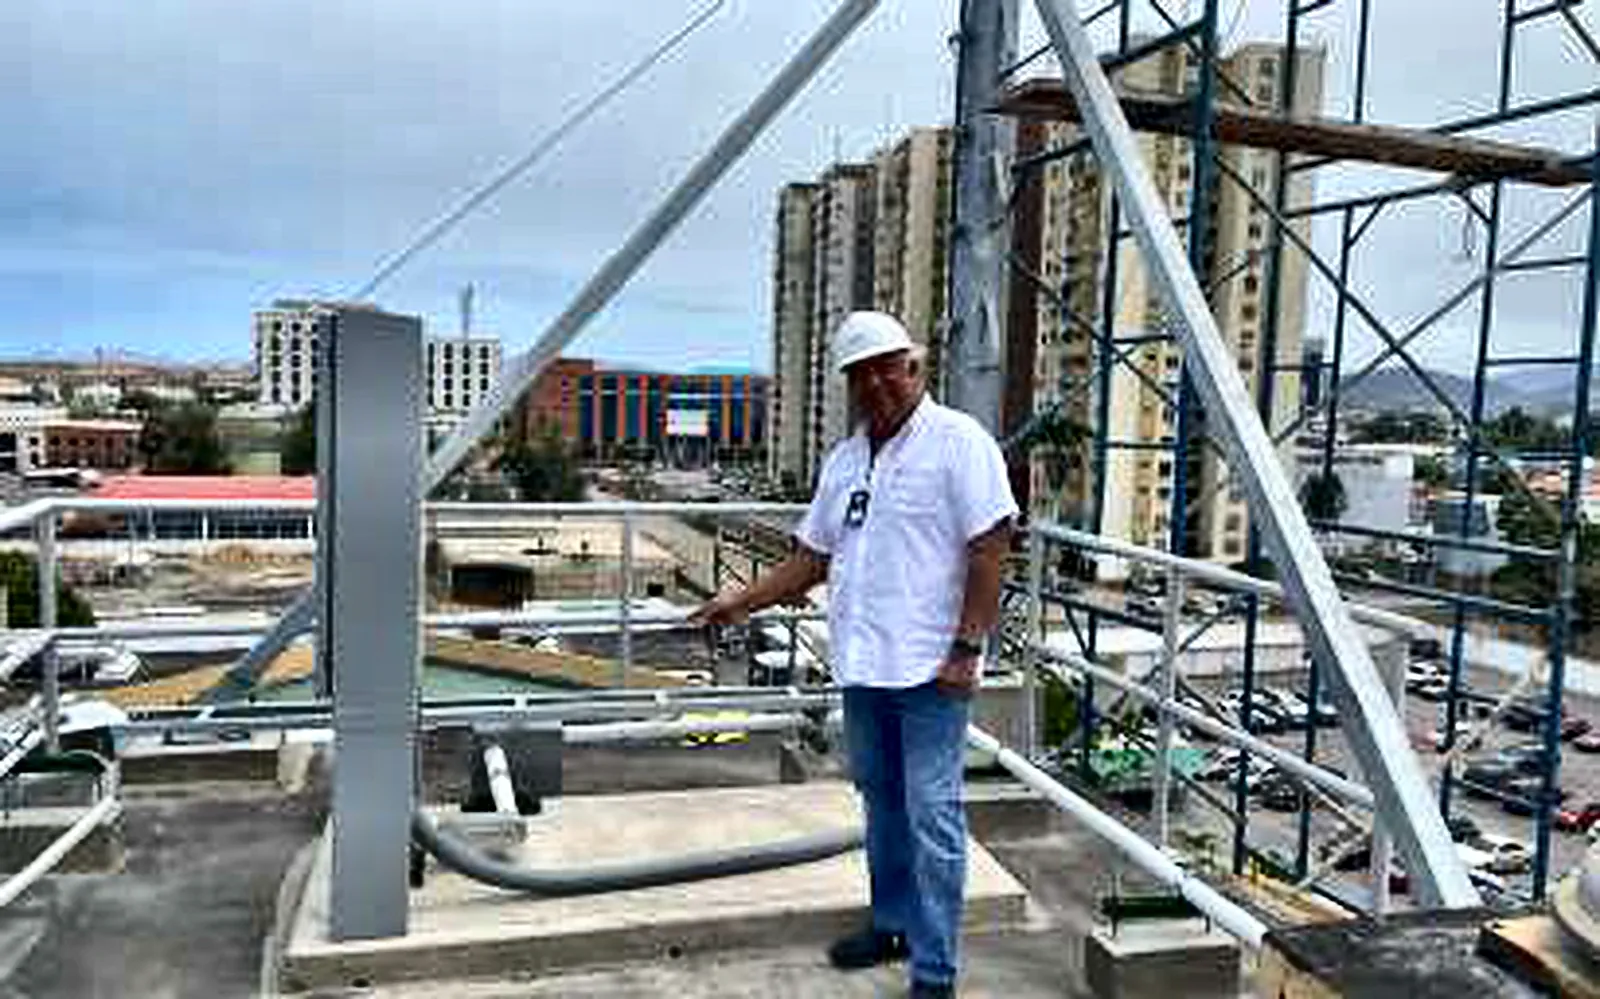
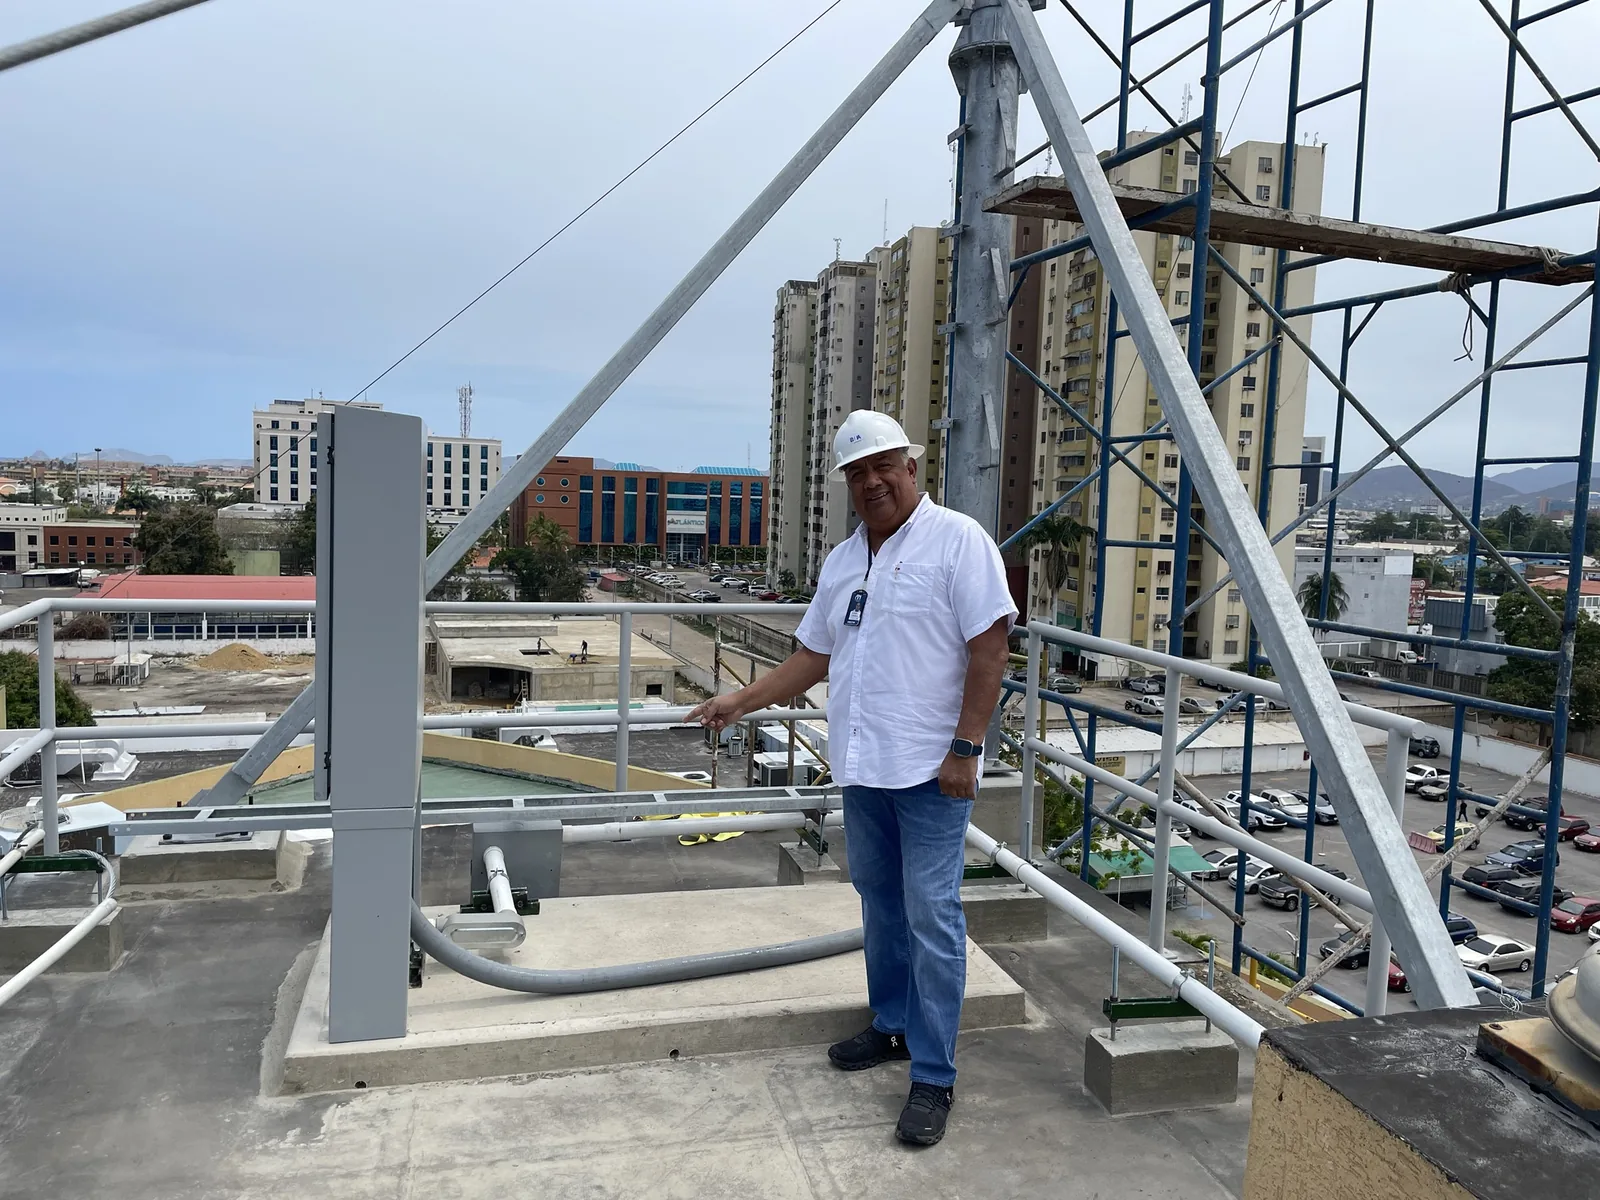
Ingeniería con la foto original de la azotea y escáner mejorado sin marca inventada
Claude-Session: https://claude.ai/code/session_0183RWzprGgvVQGHdLzmR4yj

diff --git a/public/index.html b/public/index.html
@@ -15,7 +15,7 @@
 <link rel="icon" href="img/favicon-32.png" sizes="32x32" type="image/png">
 <link rel="apple-touch-icon" href="img/apple-touch-icon.png">
 <link rel="preload" href="fonts/redhat-display.woff2" as="font" type="font/woff2" crossorigin>
-<link rel="stylesheet" href="css/estilos.css?v=11">
+<link rel="stylesheet" href="css/estilos.css?v=12">
 <script type="application/ld+json">{"@context":"https://schema.org","@type":"GeneralContractor","name":"0701 Ingeniería C.A.","taxID":"J-31628414-0","foundingDate":"2006-08","email":"0701bim@gmail.com","telephone":["+58 424-862-9487","+58 412-840-7792"],"founder":{"@type":"Person","name":"Gabriel A. Forero León","jobTitle":"Ingeniero civil estructural"},"address":{"@type":"PostalAddress","streetAddress":"Calle Sur, Edif. Arabella, piso 9, apto. 91, sector Venecia","addressLocality":"Lechería","addressRegion":"Anzoátegui","postalCode":"6016","addressCountry":"VE"},"areaServed":"Anzoátegui, Venezuela"}</script>
 </head>
 <body>
@@ -78,7 +78,7 @@
     </div>
     <ul class="srv-rejilla">
 <li class="srv">
-  <div class="srv__img"><img class="" src="img/fotos/srv-ingenieria-800.webp" srcset="img/fotos/srv-ingenieria-800.webp 800w, img/fotos/srv-ingenieria-1600.webp 1600w" sizes="(min-width: 1100px) 33vw, (min-width: 720px) 50vw, 100vw" width="1600" height="999" alt="Ingeniería" loading="lazy" decoding="async"></div>
+  <div class="srv__img"><img class="" src="img/fotos/srv-ingenieria-800.webp" srcset="img/fotos/srv-ingenieria-800.webp 800w, img/fotos/srv-ingenieria-1600.webp 1600w" sizes="(min-width: 1100px) 33vw, (min-width: 720px) 50vw, 100vw" width="1600" height="1200" alt="Ingeniería" loading="lazy" decoding="async"></div>
   <h3>Ingeniería</h3>
   <p>Ingeniería conceptual y de detalle civil, mecánica y eléctrica, modelado BIM, estudios de factibilidad e interventoría técnica, administrativa y financiera de obras públicas y privadas.</p>
 </li>
@@ -103,7 +103,7 @@
   <p>Búsqueda, compra y suministro de materiales, repuestos y revestimientos para plantas industriales y edificaciones.</p>
 </li>
 <li class="srv">
-  <div class="srv__img"><img class="" src="img/fotos/srv-levantamientos-800.webp" srcset="img/fotos/srv-levantamientos-800.webp 800w, img/fotos/srv-levantamientos-1600.webp 1600w" sizes="(min-width: 1100px) 33vw, (min-width: 720px) 50vw, 100vw" width="1600" height="991" alt="Levantamientos y geotecnia" loading="lazy" decoding="async"></div>
+  <div class="srv__img"><img class="" src="img/fotos/srv-levantamientos-800.webp" srcset="img/fotos/srv-levantamientos-800.webp 800w, img/fotos/srv-levantamientos-1600.webp 1600w" sizes="(min-width: 1100px) 33vw, (min-width: 720px) 50vw, 100vw" width="1592" height="988" alt="Levantamientos y geotecnia" loading="lazy" decoding="async"></div>
   <h3>Levantamientos y geotecnia</h3>
   <p>Topografía, replanteo, escáner láser, aerofotogrametría y LIDAR, estudios de suelo y micropilotaje, junto a nuestros aliados.</p>
 </li>
@@ -219,6 +219,6 @@
   <div class="env pie__base"><span>© 2026 0701 Ingeniería C.A.</span><span>Web: <a href="https://muelle0.com" rel="noopener">muelle0</a></span></div>
 </footer>
 <div class="visor" hidden><button class="visor__cerrar" type="button" aria-label="Cerrar">Cerrar</button><img alt=""><p class="visor__pie"></p></div>
-<script src="js/main.js?v=11" defer></script>
+<script src="js/main.js?v=12" defer></script>
 </body>
 </html>

diff --git a/public/obras/cerveceria-polar-barcelona/index.html b/public/obras/cerveceria-polar-barcelona/index.html
@@ -15,7 +15,7 @@
 <link rel="icon" href="../../img/favicon-32.png" sizes="32x32" type="image/png">
 <link rel="apple-touch-icon" href="../../img/apple-touch-icon.png">
 <link rel="preload" href="../../fonts/redhat-display.woff2" as="font" type="font/woff2" crossorigin>
-<link rel="stylesheet" href="../../css/estilos.css?v=11">
+<link rel="stylesheet" href="../../css/estilos.css?v=12">
 </head>
 <body>
 <a class="saltar" href="#contenido">Saltar al contenido</a>
@@ -86,6 +86,6 @@
   <div class="env pie__base"><span>© 2026 0701 Ingeniería C.A.</span><span>Web: <a href="https://muelle0.com" rel="noopener">muelle0</a></span></div>
 </footer>
 <div class="visor" hidden><button class="visor__cerrar" type="button" aria-label="Cerrar">Cerrar</button><img alt=""><p class="visor__pie"></p></div>
-<script src="../../js/main.js?v=11" defer></script>
+<script src="../../js/main.js?v=12" defer></script>
 </body>
 </html>

diff --git a/public/obras/deposito-tijerazo/index.html b/public/obras/deposito-tijerazo/index.html
@@ -15,7 +15,7 @@
 <link rel="icon" href="../../img/favicon-32.png" sizes="32x32" type="image/png">
 <link rel="apple-touch-icon" href="../../img/apple-touch-icon.png">
 <link rel="preload" href="../../fonts/redhat-display.woff2" as="font" type="font/woff2" crossorigin>
-<link rel="stylesheet" href="../../css/estilos.css?v=11">
+<link rel="stylesheet" href="../../css/estilos.css?v=12">
 </head>
 <body>
 <a class="saltar" href="#contenido">Saltar al contenido</a>
@@ -86,6 +86,6 @@
   <div class="env pie__base"><span>© 2026 0701 Ingeniería C.A.</span><span>Web: <a href="https://muelle0.com" rel="noopener">muelle0</a></span></div>
 </footer>
 <div class="visor" hidden><button class="visor__cerrar" type="button" aria-label="Cerrar">Cerrar</button><img alt=""><p class="visor__pie"></p></div>
-<script src="../../js/main.js?v=11" defer></script>
+<script src="../../js/main.js?v=12" defer></script>
 </body>
 </html>

diff --git a/public/obras/plaza-mayor/index.html b/public/obras/plaza-mayor/index.html
@@ -15,7 +15,7 @@
 <link rel="icon" href="../../img/favicon-32.png" sizes="32x32" type="image/png">
 <link rel="apple-touch-icon" href="../../img/apple-touch-icon.png">
 <link rel="preload" href="../../fonts/redhat-display.woff2" as="font" type="font/woff2" crossorigin>
-<link rel="stylesheet" href="../../css/estilos.css?v=11">
+<link rel="stylesheet" href="../../css/estilos.css?v=12">
 </head>
 <body>
 <a class="saltar" href="#contenido">Saltar al contenido</a>
@@ -86,6 +86,6 @@
   <div class="env pie__base"><span>© 2026 0701 Ingeniería C.A.</span><span>Web: <a href="https://muelle0.com" rel="noopener">muelle0</a></span></div>
 </footer>
 <div class="visor" hidden><button class="visor__cerrar" type="button" aria-label="Cerrar">Cerrar</button><img alt=""><p class="visor__pie"></p></div>
-<script src="../../js/main.js?v=11" defer></script>
+<script src="../../js/main.js?v=12" defer></script>
 </body>
 </html>

diff --git a/public/obras/tienda-tijerazo-puerto-la-cruz/index.html b/public/obras/tienda-tijerazo-puerto-la-cruz/index.html
@@ -15,7 +15,7 @@
 <link rel="icon" href="../../img/favicon-32.png" sizes="32x32" type="image/png">
 <link rel="apple-touch-icon" href="../../img/apple-touch-icon.png">
 <link rel="preload" href="../../fonts/redhat-display.woff2" as="font" type="font/woff2" crossorigin>
-<link rel="stylesheet" href="../../css/estilos.css?v=11">
+<link rel="stylesheet" href="../../css/estilos.css?v=12">
 </head>
 <body>
 <a class="saltar" href="#contenido">Saltar al contenido</a>
@@ -86,6 +86,6 @@
   <div class="env pie__base"><span>© 2026 0701 Ingeniería C.A.</span><span>Web: <a href="https://muelle0.com" rel="noopener">muelle0</a></span></div>
 </footer>
 <div class="visor" hidden><button class="visor__cerrar" type="button" aria-label="Cerrar">Cerrar</button><img alt=""><p class="visor__pie"></p></div>
-<script src="../../js/main.js?v=11" defer></script>
+<script src="../../js/main.js?v=12" defer></script>
 </body>
 </html>

diff --git a/public/obras/torres-digitel/index.html b/public/obras/torres-digitel/index.html
@@ -15,7 +15,7 @@
 <link rel="icon" href="../../img/favicon-32.png" sizes="32x32" type="image/png">
 <link rel="apple-touch-icon" href="../../img/apple-touch-icon.png">
 <link rel="preload" href="../../fonts/redhat-display.woff2" as="font" type="font/woff2" crossorigin>
-<link rel="stylesheet" href="../../css/estilos.css?v=11">
+<link rel="stylesheet" href="../../css/estilos.css?v=12">
 </head>
 <body>
 <a class="saltar" href="#contenido">Saltar al contenido</a>
@@ -86,6 +86,6 @@
   <div class="env pie__base"><span>© 2026 0701 Ingeniería C.A.</span><span>Web: <a href="https://muelle0.com" rel="noopener">muelle0</a></span></div>
 </footer>
 <div class="visor" hidden><button class="visor__cerrar" type="button" aria-label="Cerrar">Cerrar</button><img alt=""><p class="visor__pie"></p></div>
-<script src="../../js/main.js?v=11" defer></script>
+<script src="../../js/main.js?v=12" defer></script>
 </body>
 </html>

diff --git a/public/obras/index.html b/public/obras/index.html
@@ -15,7 +15,7 @@
 <link rel="icon" href="../img/favicon-32.png" sizes="32x32" type="image/png">
 <link rel="apple-touch-icon" href="../img/apple-touch-icon.png">
 <link rel="preload" href="../fonts/redhat-display.woff2" as="font" type="font/woff2" crossorigin>
-<link rel="stylesheet" href="../css/estilos.css?v=11">
+<link rel="stylesheet" href="../css/estilos.css?v=12">
 </head>
 <body>
 <a class="saltar" href="#contenido">Saltar al contenido</a>
@@ -147,6 +147,6 @@
   <div class="env pie__base"><span>© 2026 0701 Ingeniería C.A.</span><span>Web: <a href="https://muelle0.com" rel="noopener">muelle0</a></span></div>
 </footer>
 <div class="visor" hidden><button class="visor__cerrar" type="button" aria-label="Cerrar">Cerrar</button><img alt=""><p class="visor__pie"></p></div>
-<script src="../js/main.js?v=11" defer></script>
+<script src="../js/main.js?v=12" defer></script>
 </body>
 </html>

diff --git a/herramientas/fotos_gpt.py b/herramientas/fotos_gpt.py
@@ -23,9 +23,10 @@ APROBADAS = {
     "digitel-crucero": "digitel-crucero", "digitel-torre": "digitel-torre", "digitel-andamio": "digitel-andamio",
     "digitel-izado": "digitel-izado", "digitel-antenas": "digitel-antenas", "digitel-azotea": "digitel-azotea",
     # servicios que reutilizan fotos de obra
+    "srv-levantamientos": "srv-levantamientos",  # segundo intento, sin marca inventada
     "srv-construccion": "tijerazo-foso", "srv-mantenimiento": "polar-revestimiento", "srv-telecom": "digitel-torre",
 }
-# Descartadas: srv-ingenieria (cara inventada), srv-levantamientos (marca inventada en el equipo)
+# srv-ingenieria no pasa por ChatGPT (inventaba la cara): se usa la foto original del teléfono (fuentes/gabriel-azotea-h.jpg)
 
 ruta_dim = os.path.join(SALIDA, "dimensiones.txt")
 dims = dict(l.split(None, 1) for l in open(ruta_dim).read().splitlines() if l.strip())

diff --git a/build.py b/build.py
@@ -4,7 +4,7 @@ import html, os, re
 from contenido import EMPRESA as E, SERVICIOS, CLIENTES, OBRAS, CUADRO
 
 RAIZ = os.path.join(os.path.dirname(os.path.abspath(__file__)), "public")
-V = "11"
+V = "12"
 esc = html.escape
 MARCA = open(os.path.join(RAIZ, "img", "marca.svg")).read()
 LOGO = open(os.path.join(RAIZ, "img", "logo.svg")).read()

diff --git a/README.md b/README.md
@@ -17,7 +17,7 @@ Flujo: editar `contenido.py`, `python3 build.py`, revisar con `cd public && pyth
 
 ### Fotos
 
-- **Mejoradas con ChatGPT (octubre 2026):** 18 fotos del brochure pasaron por ChatGPT con la instrucción de no añadir ni cambiar nada (`fuentes/chatgpt/`, exportadas con `herramientas/fotos_gpt.py`). Cada una se comparó con su original antes de aprobarla. Descartadas: `srv-ingenieria` (cara inventada) y `srv-levantamientos` (marca inventada en el equipo). En `digitel-antenas` el cielo gris pasó a azul. Originales del brochure en `fuentes/brochure/`.
+- **Mejoradas con ChatGPT (octubre 2026):** 18 fotos del brochure pasaron por ChatGPT con la instrucción de no añadir ni cambiar nada (`fuentes/chatgpt/`, exportadas con `herramientas/fotos_gpt.py`). Cada una se comparó con su original antes de aprobarla. `srv-ingenieria` no se usa de ChatGPT (inventaba la cara): va la original del teléfono que mandó la familia (`fuentes/gabriel-azotea-h.jpg`). `srv-levantamientos` salió bien al segundo intento, pidiendo no escribir marcas. En `digitel-antenas` el cielo gris pasó a azul. Originales del brochure en `fuentes/brochure/`.
 
 Las fotos del brochure venían a 300 a 900 px. Se pasaron por Real-ESRGAN x4plus en CPU (`esrgan.py`, arquitectura RRDBNet sin basicsr) y después por `fotos.py`: CLAHE suave en luminancia, niveles al 0,4 y 99,6 %, saturación +8 %. Las del teléfono se reducen al 50 % antes de mejorarlas para que salgan a 2160 px.
 
@@ -38,6 +38,7 @@ Las fotos del brochure venían a 300 a 900 px. Se pasaron por Real-ESRGAN x4plus
 - Farmacia SAAS de Anaco: alcance, año y fotos.
 - Alquiler de equipos (andamios y herramientas): qué se ofrece.
 - Proyectos 2025 y 2026 que falten, y más historia de la empresa.
+- Las fotos de la azotea con el Ing. Forero (`fuentes/gabriel-azotea-*.jpg`, `gabriel-escalera.jpg`): confirmar de qué obra son antes de ponerlas en una memoria.
 - Fotos originales en alta (Digitel, Tijerazo, Polar, Plaza Mayor) y vídeos cortos de obra para minivídeos.
 - Logo en vector original.
 - Depósito Tijerazo: confirmar ubicación y alcance exacto (la memoria se escribió a partir de las fotos).
